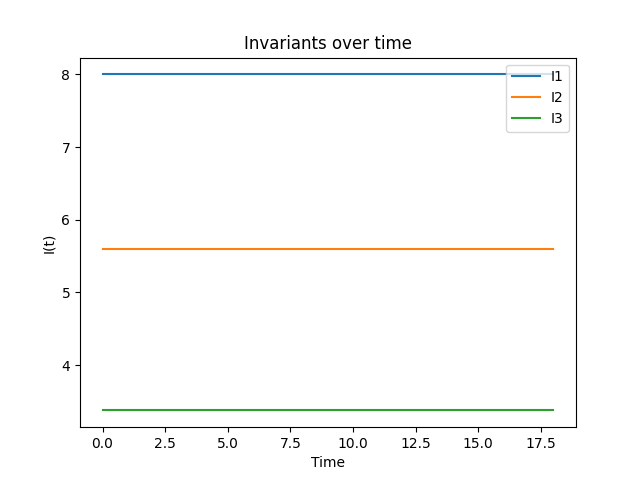
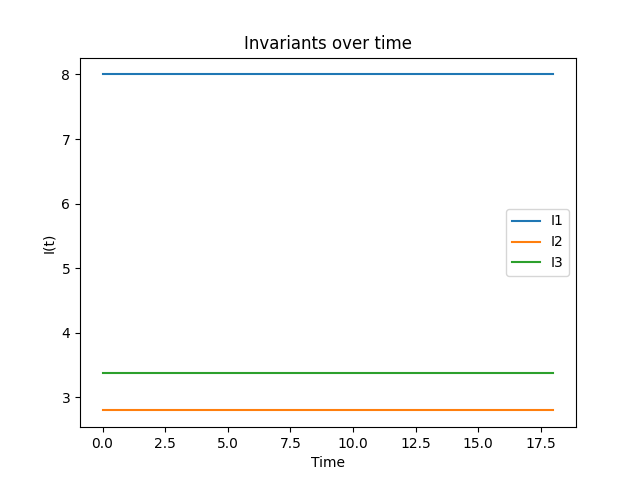
rescale I2

diff --git a/demos/bbm_auxiliary/demo_bbm_aux.py.rst b/demos/bbm_auxiliary/demo_bbm_aux.py.rst
@@ -15,7 +15,7 @@ BBM is known to have a Hamiltonian structure, and there are several canonical po
 
    I_1 & = \int u \, \mathrm{d}x
 
-   I_2 & = \int u^2 + (u_x)^2 \, \mathrm{d}x
+   I_2 & = \int \frac{u^2 + (u_x)^2}{2} \, \mathrm{d}x
 
    I_3 & = \int \frac{u^2}{2} + \frac{u^3}{6} \, \mathrm{d}x
 
@@ -104,7 +104,7 @@ but :math:`I_2` is preserved up to a bounded oscillation ::
       return u * dx
 
   def I2(u):
-      return h1inner(u, u) * dx
+      return 0.5 * h1inner(u, u) * dx
 
   def I3(u):
       return (u**2 / 2 + u**3 / 6) * dx
